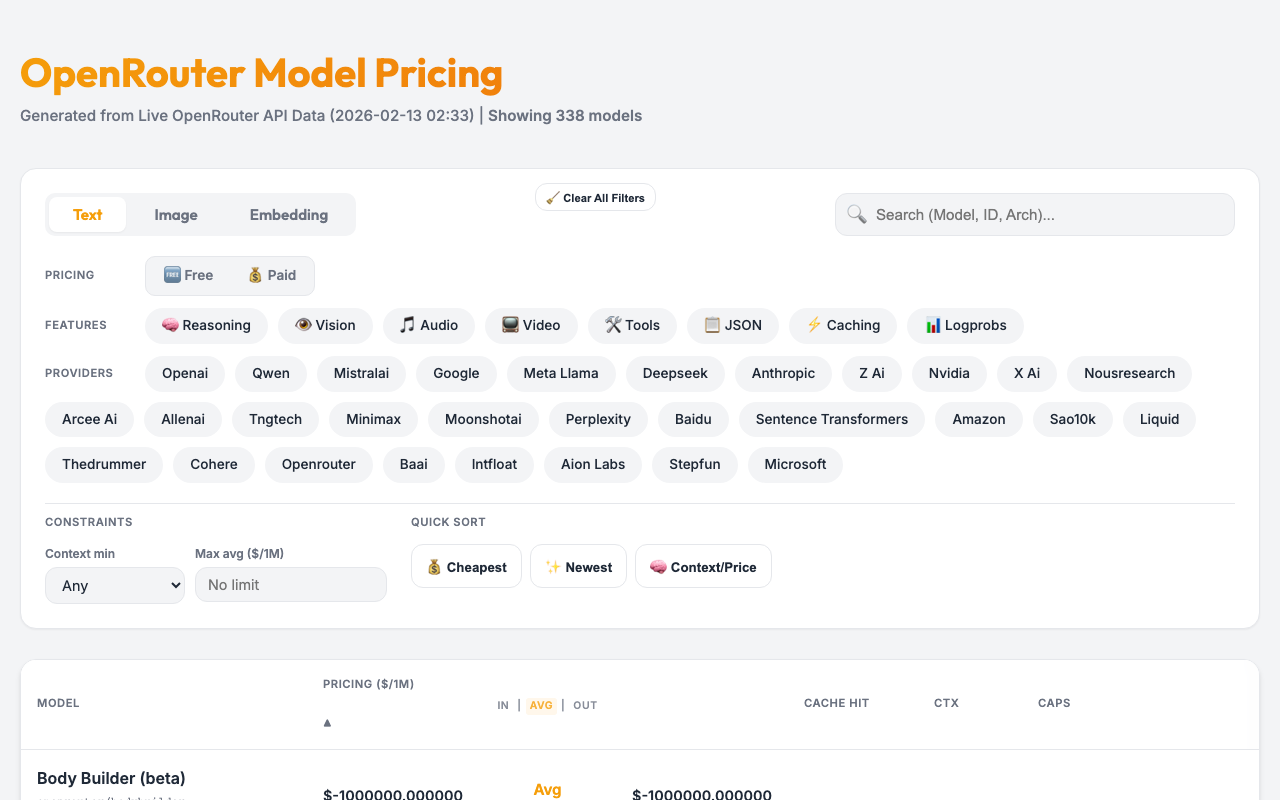
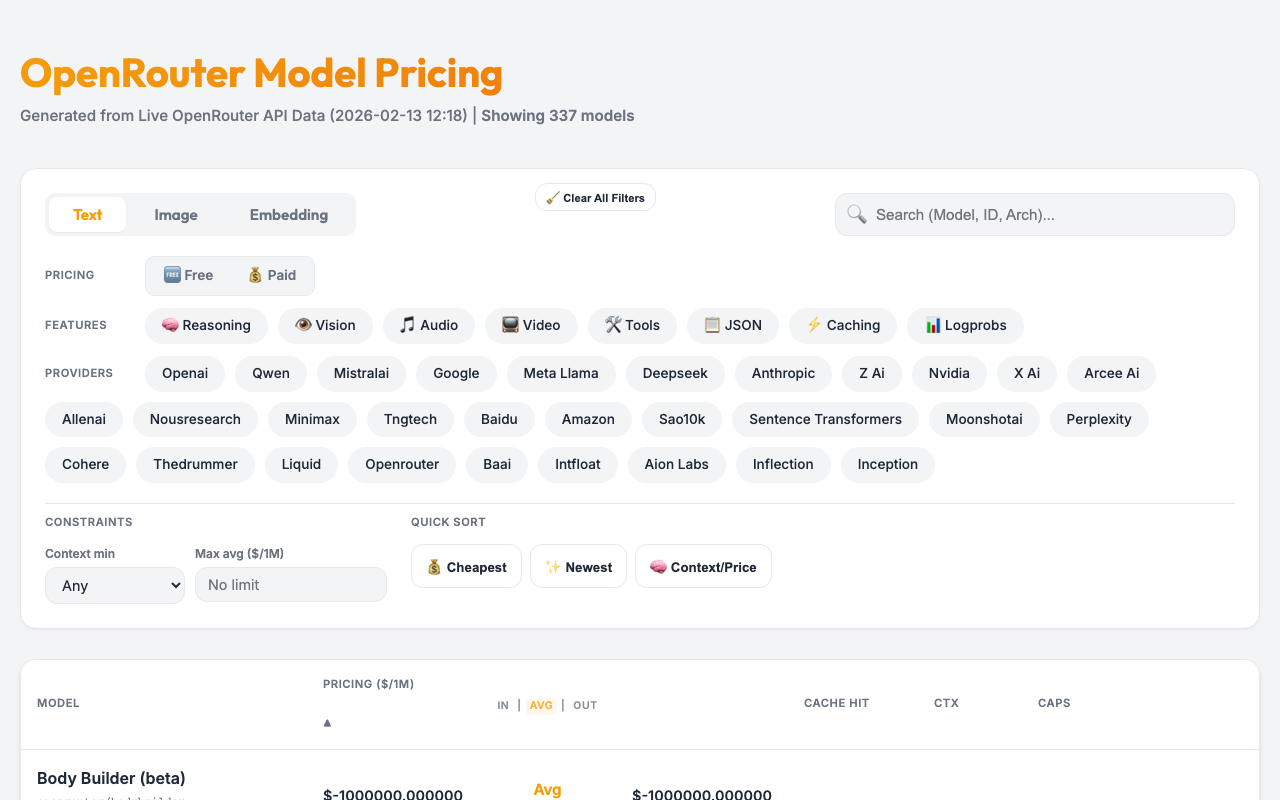
chore: automated pricing update (2026-02-13 12:18:50)
❌ Removed Models (1): mistralai/pixtral-12b
🔄 Changed Models (7): minimax/minimax-m2.5, qwen/qwen3-vl-235b-a22b-thinking, qwen/qwen3-vl-30b-a3b-instruct, qwen/qwen3-vl-30b-a3b-thinking, qwen/qwen3-vl-32b-instruct, qwen/qwen3-vl-8b-thinking, z-ai/glm-5

diff --git a/docs/index.html b/docs/index.html
@@ -634,7 +634,7 @@
     <div class="container">
         <header>
             <h1>OpenRouter Model Pricing</h1>
-            <div class="meta">Generated from Live OpenRouter API Data (2026-02-13 02:33)</div>
+            <div class="meta">Generated from Live OpenRouter API Data (2026-02-13 12:18)</div>
         </header>
 
         <div class="controls">
@@ -664,7 +664,7 @@
                                 <option value="31744">31k+</option>
                                 <option value="65536">64k+</option>
                                 <option value="131072">128k+</option>
-                                <option value="204800">200k+</option>
+                                <option value="202752">198k+</option>
                                 <option value="400384">391k+</option>
                                 <option value="1040384">1016k+</option>
                                 <option value="1999872">1.9M+</option>
@@ -731,13 +731,19 @@
       },
       "per_request_limits": null,
       "supported_parameters": [
+        "frequency_penalty",
         "include_reasoning",
         "max_tokens",
+        "presence_penalty",
         "reasoning",
+        "repetition_penalty",
         "response_format",
+        "seed",
+        "stop",
         "temperature",
         "tool_choice",
         "tools",
+        "top_k",
         "top_p"
       ],
       "default_parameters": {
@@ -781,6 +787,7 @@
         "frequency_penalty",
         "include_reasoning",
         "logit_bias",
+        "logprobs",
         "max_tokens",
         "min_p",
         "presence_penalty",
@@ -794,6 +801,7 @@
         "tool_choice",
         "tools",
         "top_k",
+        "top_logprobs",
         "top_p"
       ],
       "default_parameters": {
@@ -4466,7 +4474,7 @@
       "name": "Qwen: Qwen3 VL 32B Instruct",
       "created": 1761231332,
       "description": "Qwen3-VL-32B-Instruct is a large-scale multimodal vision-language model designed for high-precision understanding and reasoning across text, images, and video. With 32 billion parameters, it combines deep visual perception with advanced text comprehension, enabling fine-grained spatial reasoning, document and scene analysis, and long-horizon video understanding.Robust OCR in 32 languages, and enhanced multimodal fusion through Interleaved-MRoPE and DeepStack architectures. Optimized for agentic interaction and visual tool use, Qwen3-VL-32B delivers state-of-the-art performance for complex real-world multimodal tasks.",
-      "context_length": 262144,
+      "context_length": 131072,
       "architecture": {
         "modality": "text+image->text",
         "input_modalities": [
@@ -4480,12 +4488,12 @@
         "instruct_type": null
       },
       "pricing": {
-        "prompt": "0.0000005",
-        "completion": "0.0000015"
+        "prompt": "0.000000104",
+        "completion": "0.000000416"
       },
       "top_provider": {
-        "context_length": 262144,
-        "max_completion_tokens": null,
+        "context_length": 131072,
+        "max_completion_tokens": 32768,
         "is_moderated": false
       },
       "per_request_limits": null,
@@ -4497,9 +4505,12 @@
         "presence_penalty",
         "repetition_penalty",
         "response_format",
+        "seed",
         "stop",
         "structured_outputs",
         "temperature",
+        "tool_choice",
+        "tools",
         "top_k",
         "top_p"
       ],
@@ -4726,8 +4737,8 @@
         "instruct_type": null
       },
       "pricing": {
-        "prompt": "0.00000018",
-        "completion": "0.0000021"
+        "prompt": "0.000000117",
+        "completion": "0.000001365"
       },
       "top_provider": {
         "context_length": 131072,
@@ -5043,8 +5054,12 @@
         "instruct_type": null
       },
       "pricing": {
-        "prompt": "0.0000002",
-        "completion": "0.000001"
+        "prompt": "0",
+        "completion": "0",
+        "request": "0",
+        "image": "0",
+        "web_search": "0",
+        "internal_reasoning": "0"
       },
       "top_provider": {
         "context_length": 131072,
@@ -5082,7 +5097,7 @@
       "name": "Qwen: Qwen3 VL 30B A3B Instruct",
       "created": 1759794476,
       "description": "Qwen3-VL-30B-A3B-Instruct is a multimodal model that unifies strong text generation with visual understanding for images and videos. Its Instruct variant optimizes instruction-following for general multimodal tasks. It excels in perception of real-world/synthetic categories, 2D/3D spatial grounding, and long-form visual comprehension, achieving competitive multimodal benchmark results. For agentic use, it handles multi-image multi-turn instructions, video timeline alignments, GUI automation, and visual coding from sketches to debugged UI. Text performance matches flagship Qwen3 models, suiting document AI, OCR, UI assistance, spatial tasks, and agent research.",
-      "context_length": 262144,
+      "context_length": 131072,
       "architecture": {
         "modality": "text+image->text",
         "input_modalities": [
@@ -5096,12 +5111,12 @@
         "instruct_type": null
       },
       "pricing": {
-        "prompt": "0.00000015",
-        "completion": "0.0000006"
+        "prompt": "0.00000013",
+        "completion": "0.00000052"
       },
       "top_provider": {
-        "context_length": 262144,
-        "max_completion_tokens": null,
+        "context_length": 131072,
+        "max_completion_tokens": 32768,
         "is_moderated": false
       },
       "per_request_limits": null,
@@ -5608,7 +5623,7 @@
       "name": "Qwen: Qwen3 VL 235B A22B Thinking",
       "created": 1758668690,
       "description": "Qwen3-VL-235B-A22B Thinking is a multimodal model that unifies strong text generation with visual understanding across images and video. The Thinking model is optimized for multimodal reasoning in STEM and math. The series emphasizes robust perception (recognition of diverse real-world and synthetic categories), spatial understanding (2D/3D grounding), and long-form visual comprehension, with competitive results on public multimodal benchmarks for both perception and reasoning.\n\nBeyond analysis, Qwen3-VL supports agentic interaction and tool use: it can follow complex instructions over multi-image, multi-turn dialogues; align text to video timelines for precise temporal queries; and operate GUI elements for automation tasks. The models also enable visual coding workflows, turning sketches or mockups into code and assisting with UI debugging, while maintaining strong text-only performance comparable to the flagship Qwen3 language models. This makes Qwen3-VL suitable for production scenarios spanning document AI, multilingual OCR, software/UI assistance, spatial/embodied tasks, and research on vision-language agents.",
-      "context_length": 262144,
+      "context_length": 131072,
       "architecture": {
         "modality": "text+image->text",
         "input_modalities": [
@@ -5622,12 +5637,16 @@
         "instruct_type": null
       },
       "pricing": {
-        "prompt": "0.00000045",
-        "completion": "0.0000035"
+        "prompt": "0",
+        "completion": "0",
+        "request": "0",
+        "image": "0",
+        "web_search": "0",
+        "internal_reasoning": "0"
       },
       "top_provider": {
-        "context_length": 262144,
-        "max_completion_tokens": 262144,
+        "context_length": 131072,
+        "max_completion_tokens": 32768,
         "is_moderated": false
       },
       "per_request_limits": null,
@@ -14646,54 +14665,6 @@
       "expiration_date": null
     },
     {
-      "id": "mistralai/pixtral-12b",
-      "canonical_slug": "mistralai/pixtral-12b",
-      "hugging_face_id": "mistralai/Pixtral-12B-2409",
-      "name": "Mistral: Pixtral 12B",
-      "created": 1725926400,
-      "description": "The first multi-modal, text+image-to-text model from Mistral AI. Its weights were launched via torrent: https://x.com/mistralai/status/1833758285167722836.",
-      "context_length": 32768,
-      "architecture": {
-        "modality": "text+image->text",
-        "input_modalities": [
-          "text",
-          "image"
-        ],
-        "output_modalities": [
-          "text"
-        ],
-        "tokenizer": "Mistral",
-        "instruct_type": null
-      },
-      "pricing": {
-        "prompt": "0.0000001",
-        "completion": "0.0000001"
-      },
-      "top_provider": {
-        "context_length": 32768,
-        "max_completion_tokens": null,
-        "is_moderated": false
-      },
-      "per_request_limits": null,
-      "supported_parameters": [
-        "frequency_penalty",
-        "logit_bias",
-        "max_tokens",
-        "min_p",
-        "presence_penalty",
-        "repetition_penalty",
-        "seed",
-        "stop",
-        "temperature",
-        "top_k",
-        "top_p"
-      ],
-      "default_parameters": {
-        "temperature": 0.3
-      },
-      "expiration_date": null
-    },
-    {
       "id": "cohere/command-r-08-2024",
       "canonical_slug": "cohere/command-r-08-2024",
       "hugging_face_id": null,
@@ -18378,7 +18349,7 @@
   ],
   "other": []
 };
-        window.providerOptions = ['openai', 'qwen', 'mistralai', 'google', 'meta-llama', 'deepseek', 'anthropic', 'z-ai', 'nvidia', 'x-ai', 'nousresearch', 'arcee-ai', 'allenai', 'tngtech', 'minimax', 'moonshotai', 'perplexity', 'baidu', 'sentence-transformers', 'amazon', 'sao10k', 'liquid', 'thedrummer', 'cohere', 'openrouter', 'baai', 'intfloat', 'aion-labs', 'stepfun', 'microsoft', 'bytedance-seed', 'thenlper', 'neversleep', 'relace', 'morph', 'inception', 'inflection', 'xiaomi', 'alibaba', 'essentialai', 'cognitivecomputations', 'anthracite-org', 'bytedance', 'writer', 'switchpoint', 'gryphe', 'prime-intellect', 'ibm-granite', 'kwaipilot', 'eleutherai', 'raifle', 'meituan', 'opengvlab', 'alfredpros', 'alpindale', 'deepcogito', 'upstage', 'tencent', 'undi95', 'ai21', 'nex-agi', 'mancer'];
+        window.providerOptions = ['openai', 'qwen', 'mistralai', 'google', 'meta-llama', 'deepseek', 'anthropic', 'z-ai', 'nvidia', 'x-ai', 'arcee-ai', 'allenai', 'nousresearch', 'minimax', 'tngtech', 'baidu', 'amazon', 'sao10k', 'sentence-transformers', 'moonshotai', 'perplexity', 'cohere', 'thedrummer', 'liquid', 'openrouter', 'baai', 'intfloat', 'aion-labs', 'inflection', 'inception', 'morph', 'thenlper', 'bytedance-seed', 'relace', 'microsoft', 'stepfun', 'neversleep', 'anthracite-org', 'opengvlab', 'cognitivecomputations', 'essentialai', 'prime-intellect', 'alpindale', 'writer', 'mancer', 'deepcogito', 'nex-agi', 'upstage', 'bytedance', 'xiaomi', 'switchpoint', 'kwaipilot', 'raifle', 'gryphe', 'alibaba', 'tencent', 'alfredpros', 'meituan', 'ibm-granite', 'eleutherai', 'undi95', 'ai21'];
         let currentTab = 'text';
         let sortKey = 'price_avg';
         let sortAsc = true;
